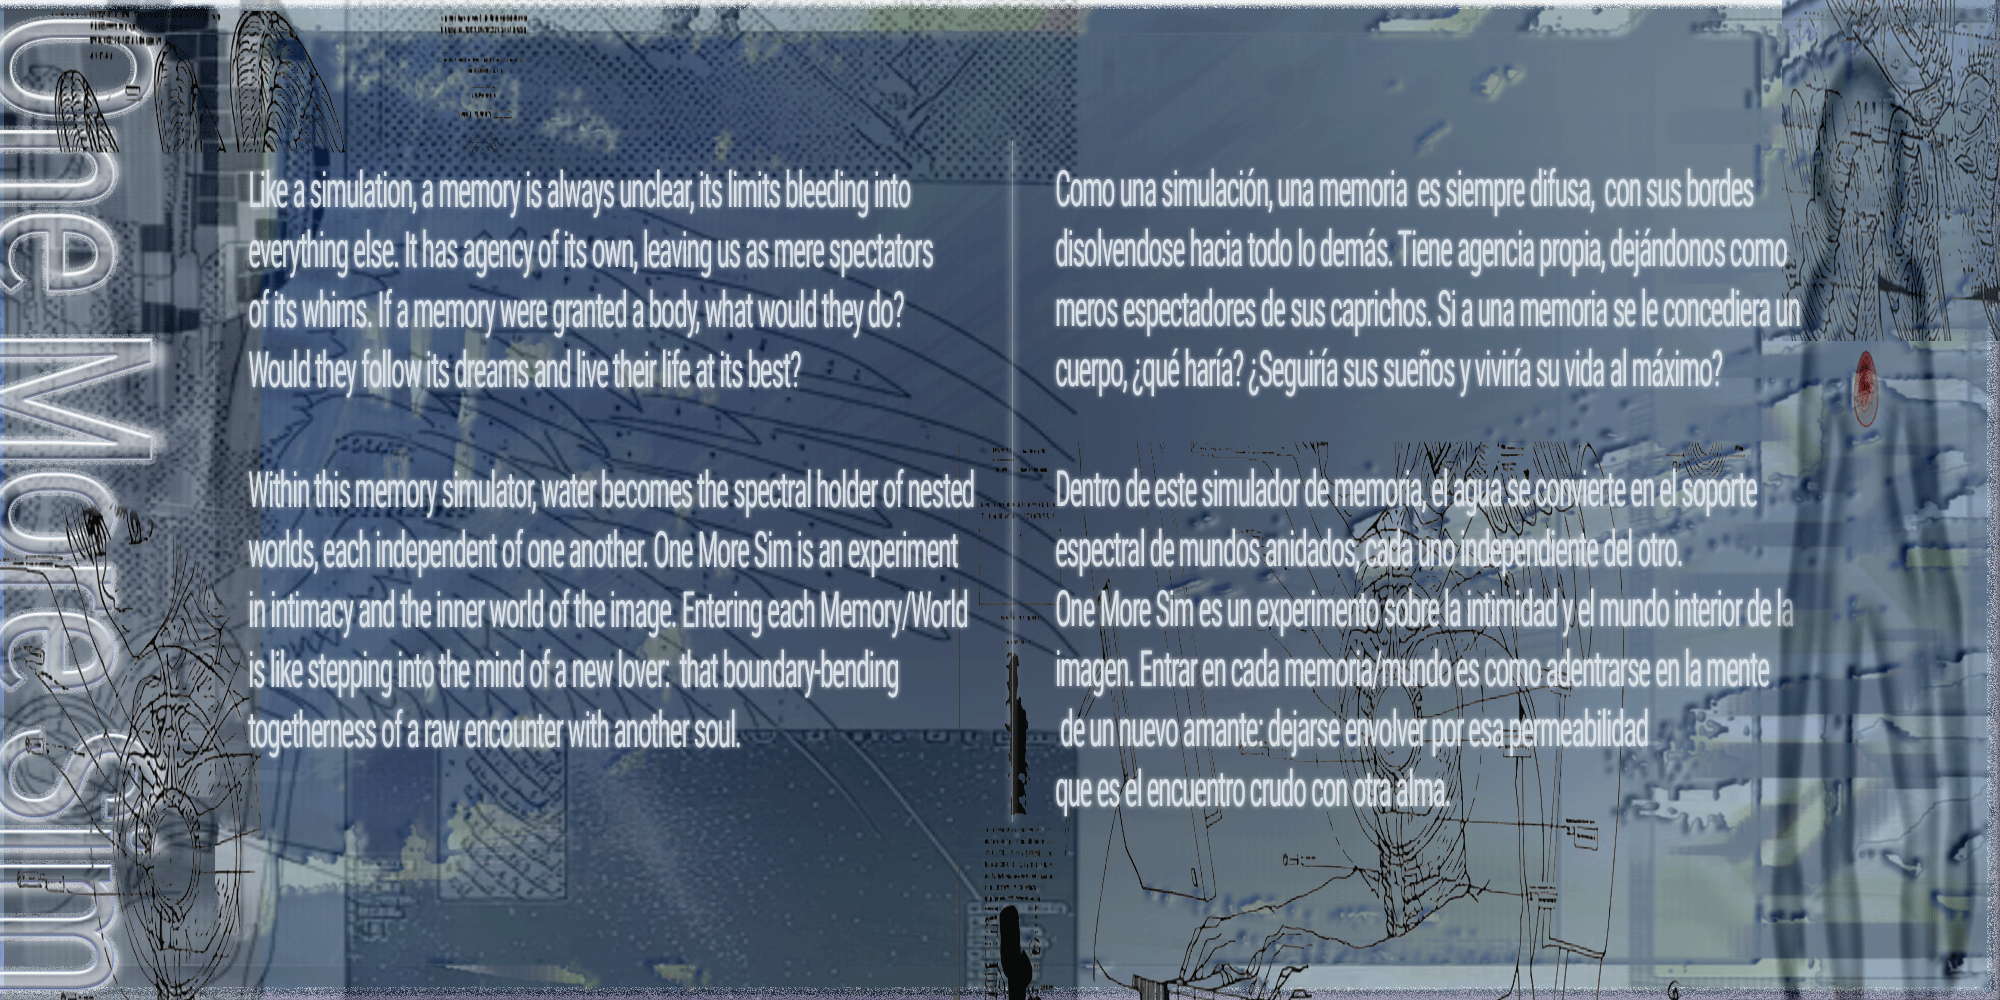
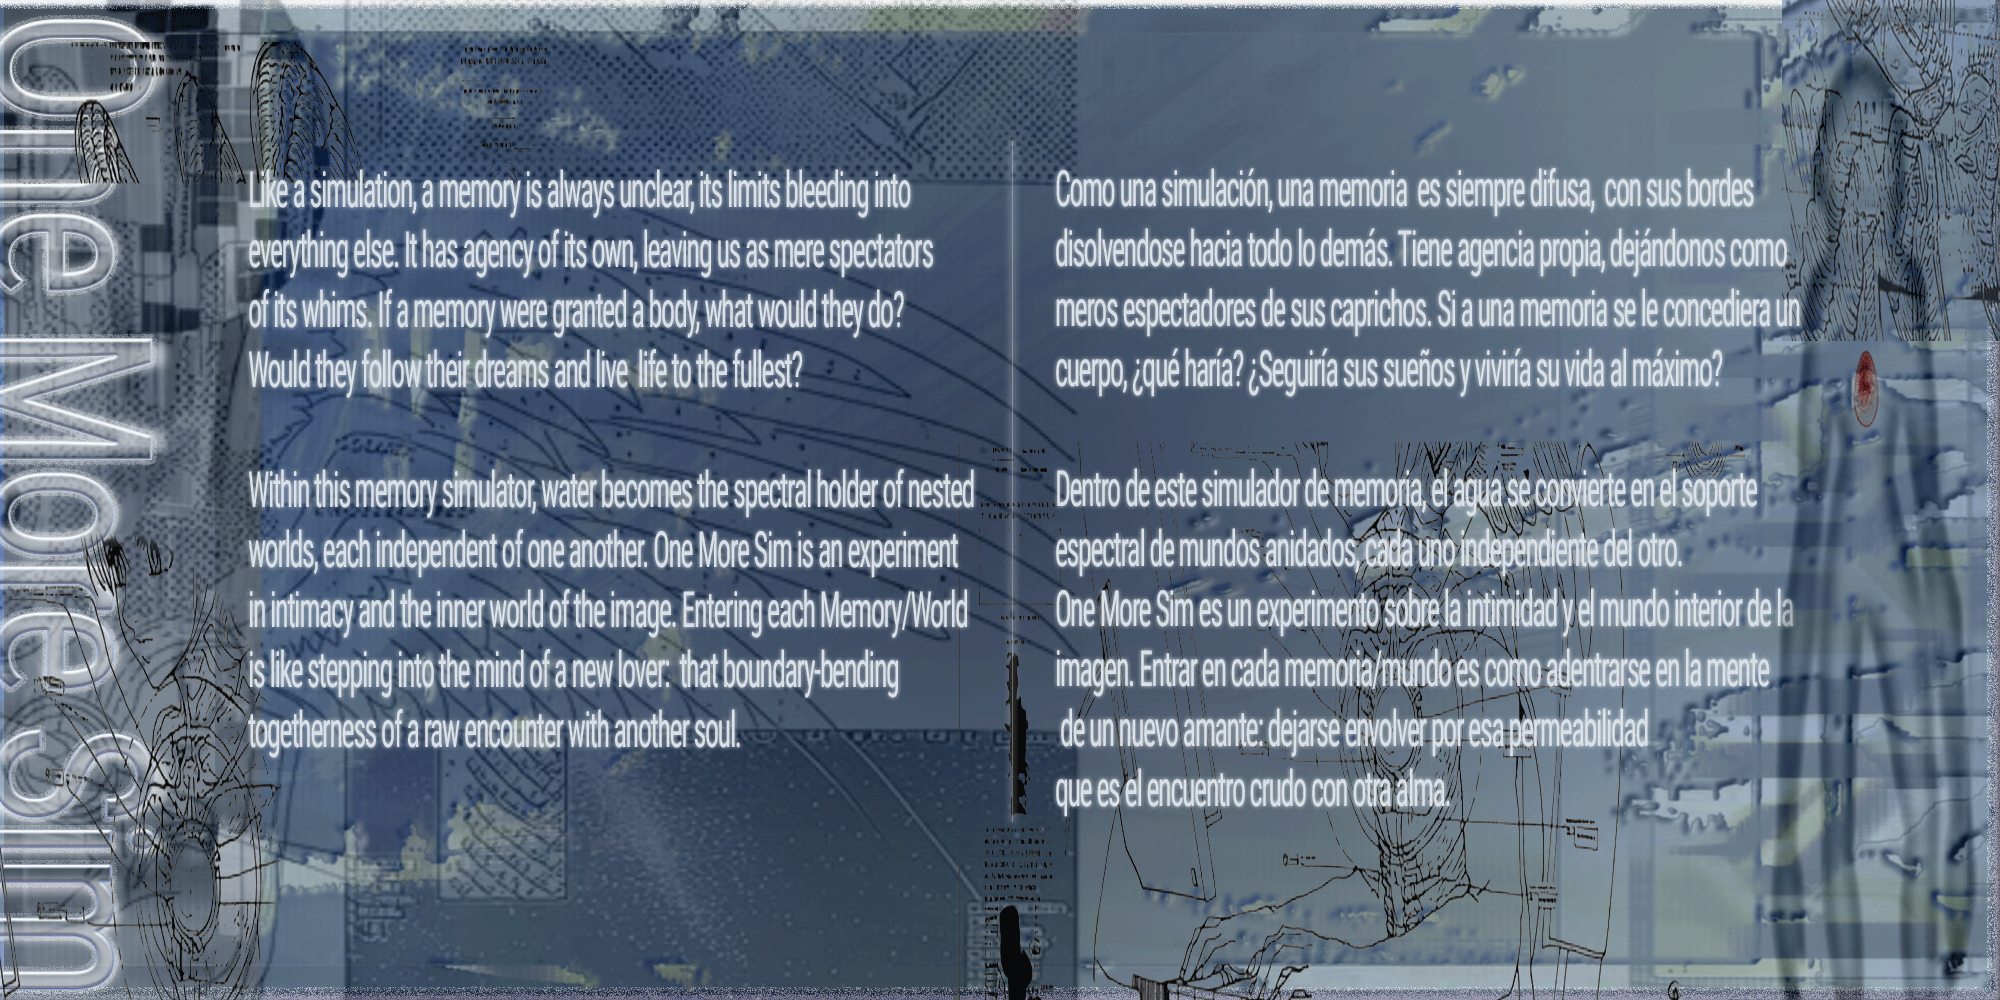
Mobile intro: swap welcome image and add intro text
- Replace welcome.png with updated artwork
- Add welcomem.png shown on mobile in place of the desktop welcome image
- Render intro paragraph above the mobile welcome image describing One More Sim
- New CSS rules for .intro-mobile-only / .intro-desktop-only visibility toggling
- Bump style.css cache buster v58 -> v59

diff --git a/style.css b/style.css
@@ -295,7 +295,8 @@ body.landing-video-ready #enter-button-img {
     box-sizing: border-box;
 }
 
-#intro-welcome-img {
+#intro-welcome-img,
+#intro-welcome-img-mobile {
     display: block;
     /* Preserve the PNG's natural aspect ratio and ensure it's never cropped.
        Width is capped to the design max (1428px @ 1920x1080) and to the
@@ -311,18 +312,50 @@ body.landing-video-ready #enter-button-img {
             drop-shadow(0 0 64px rgba(140, 180, 255, 0.25));
 }
 
+/* Mobile-only intro text shown above the welcomem.png image */
+#intro-mobile-text {
+    color: #ffffff;
+    font-family: 'Averia Libre', serif;
+    font-size: 14px;
+    line-height: 1.45;
+    text-align: center;
+    max-width: 92vw;
+    margin: 0 auto;
+    padding: 0 4px;
+    text-shadow: 0 0 8px rgba(140, 180, 255, 0.55),
+                 0 0 16px rgba(80, 130, 255, 0.35);
+}
+#intro-mobile-text p { margin: 0 0 10px 0; }
+#intro-mobile-text p:last-child { margin-bottom: 0; }
+
+/* Default visibility: desktop image visible, mobile assets hidden */
+.intro-mobile-only  { display: none; }
+.intro-desktop-only { display: block; }
+
 /* Tight screens (short Macs, small laptops): shrink gap & give image more room */
 @media (max-height: 820px) {
     #intro-content { gap: 24px; padding: 16px; }
-    #intro-welcome-img { max-height: 62vh; }
+    #intro-welcome-img,
+    #intro-welcome-img-mobile { max-height: 62vh; }
 }
 @media (max-height: 640px) {
     #intro-content { gap: 16px; padding: 10px; }
-    #intro-welcome-img { max-height: 56vh; }
+    #intro-welcome-img,
+    #intro-welcome-img-mobile { max-height: 56vh; }
 }
 /* Narrow screens */
 @media (max-width: 640px) {
-    #intro-welcome-img { max-width: 96vw; }
+    #intro-welcome-img,
+    #intro-welcome-img-mobile { max-width: 96vw; }
+}
+
+/* Mobile: swap welcome image and reveal intro text */
+@media (max-width: 768px) {
+    .intro-desktop-only { display: none !important; }
+    .intro-mobile-only  { display: block !important; }
+    #intro-content { gap: 18px; padding: 14px; }
+    #intro-welcome-img-mobile { max-height: 55vh; }
+    #intro-mobile-text { font-size: 13px; line-height: 1.4; }
 }
 
 /* Loading bar shown while preloading worlds */

diff --git a/index.html b/index.html
@@ -57,7 +57,7 @@
     </script>
     <link rel="icon" type="image/png" href="assets/tex/Buttons/colorB1.png">
     <link rel="shortcut icon" type="image/png" href="assets/tex/Buttons/colorB1.png">
-    <link rel="stylesheet" href="style.css?v=58">
+    <link rel="stylesheet" href="style.css?v=59">
     <link
         href="https://fonts.googleapis.com/css2?family=Averia+Libre:ital,wght@0,300;0,400;0,700;1,300;1,400;1,700&display=swap"
         rel="stylesheet">
@@ -380,7 +380,12 @@
         <div id="intro-godrays"></div>
         <div id="intro-center-glow"></div>
         <div id="intro-content">
-            <img src="assets/UIText/welcome.png" id="intro-welcome-img" alt="Welcome"/>
+            <div id="intro-mobile-text" class="intro-mobile-only">
+                <p>Like a simulation, a memory is always unclear, its limits bleeding into everything else. It has agency of its own, leaving us as mere spectators of its whims. If a memory were granted a body, what would they do? Would they follow their dreams and live life to the fullest?</p>
+                <p>Within this memory simulator, water becomes the spectral holder of nested worlds, each independent of one another. One More Sim is an experiment in intimacy and the inner world of the image. Entering each Memory/World is like stepping into the mind of a new lover: that boundary-bending togetherness of a raw encounter with another soul.</p>
+            </div>
+            <img src="assets/UIText/welcome.png?v=2"  id="intro-welcome-img"        class="intro-desktop-only" alt="Welcome"/>
+            <img src="assets/UIText/welcomem.png?v=1" id="intro-welcome-img-mobile" class="intro-mobile-only"  alt="Welcome"/>
             <div id="intro-loading-bar-wrap">
                 <div id="intro-loading-bar"></div>
             </div>
